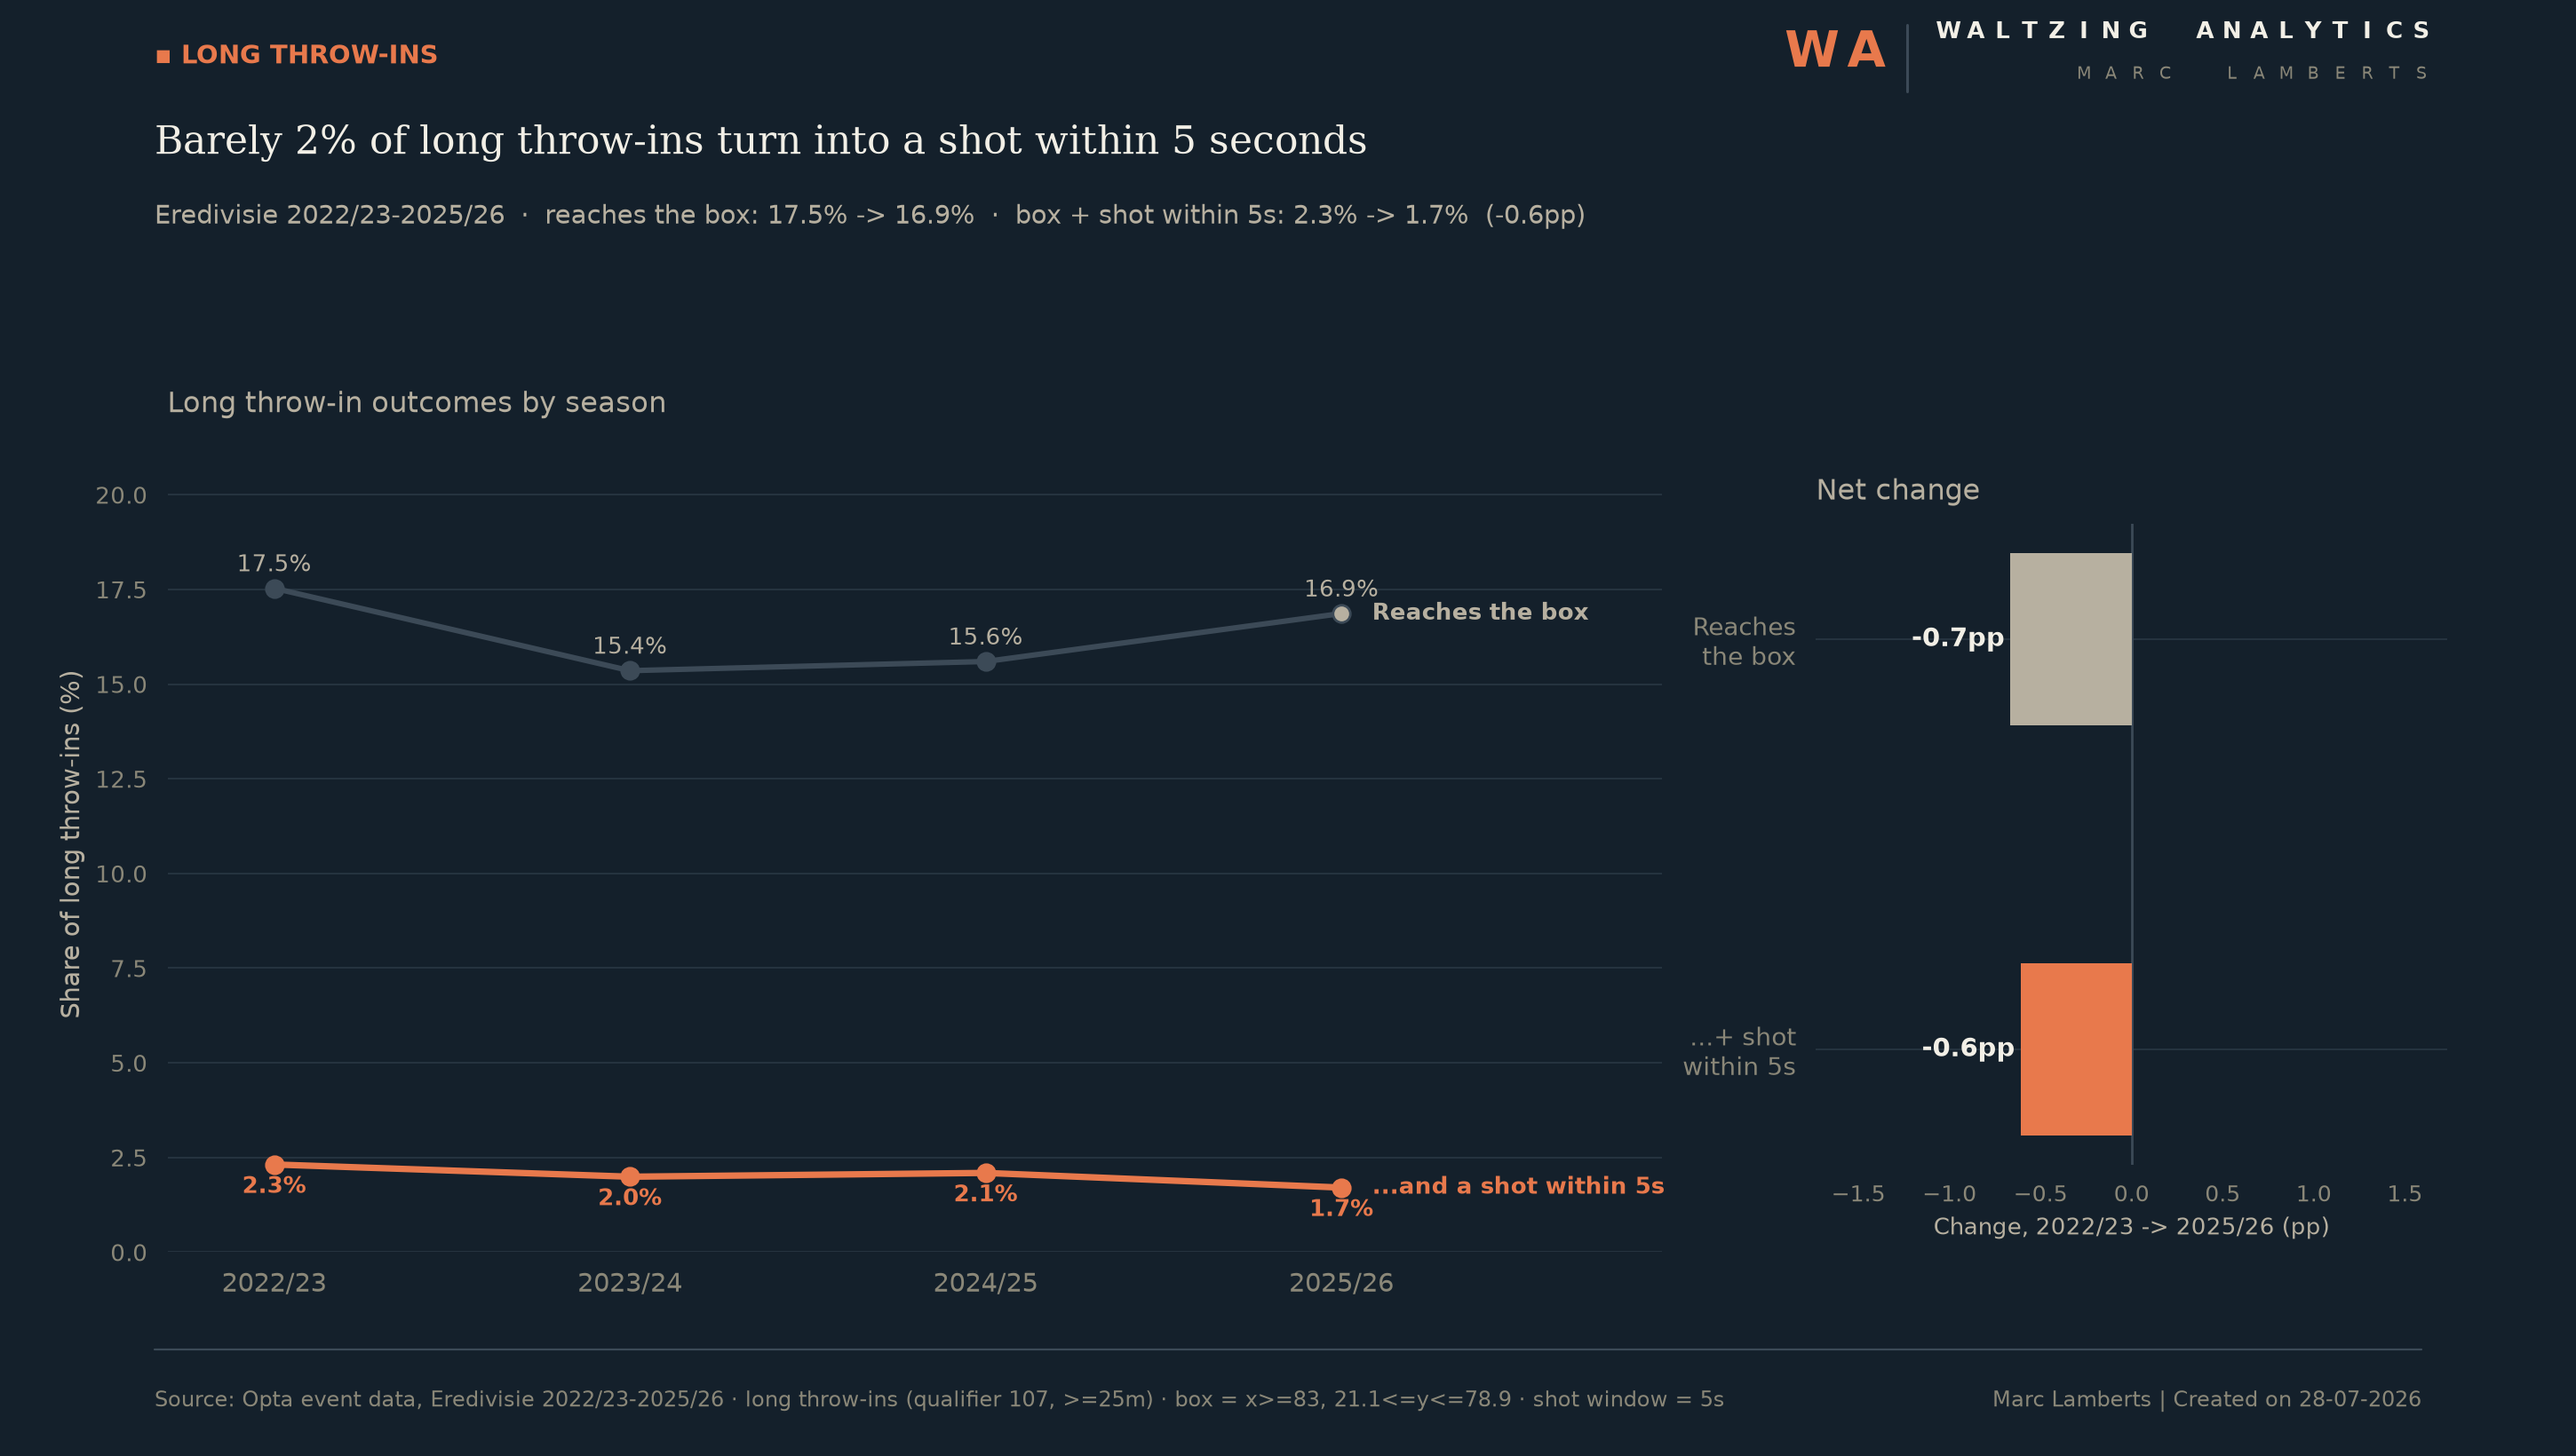
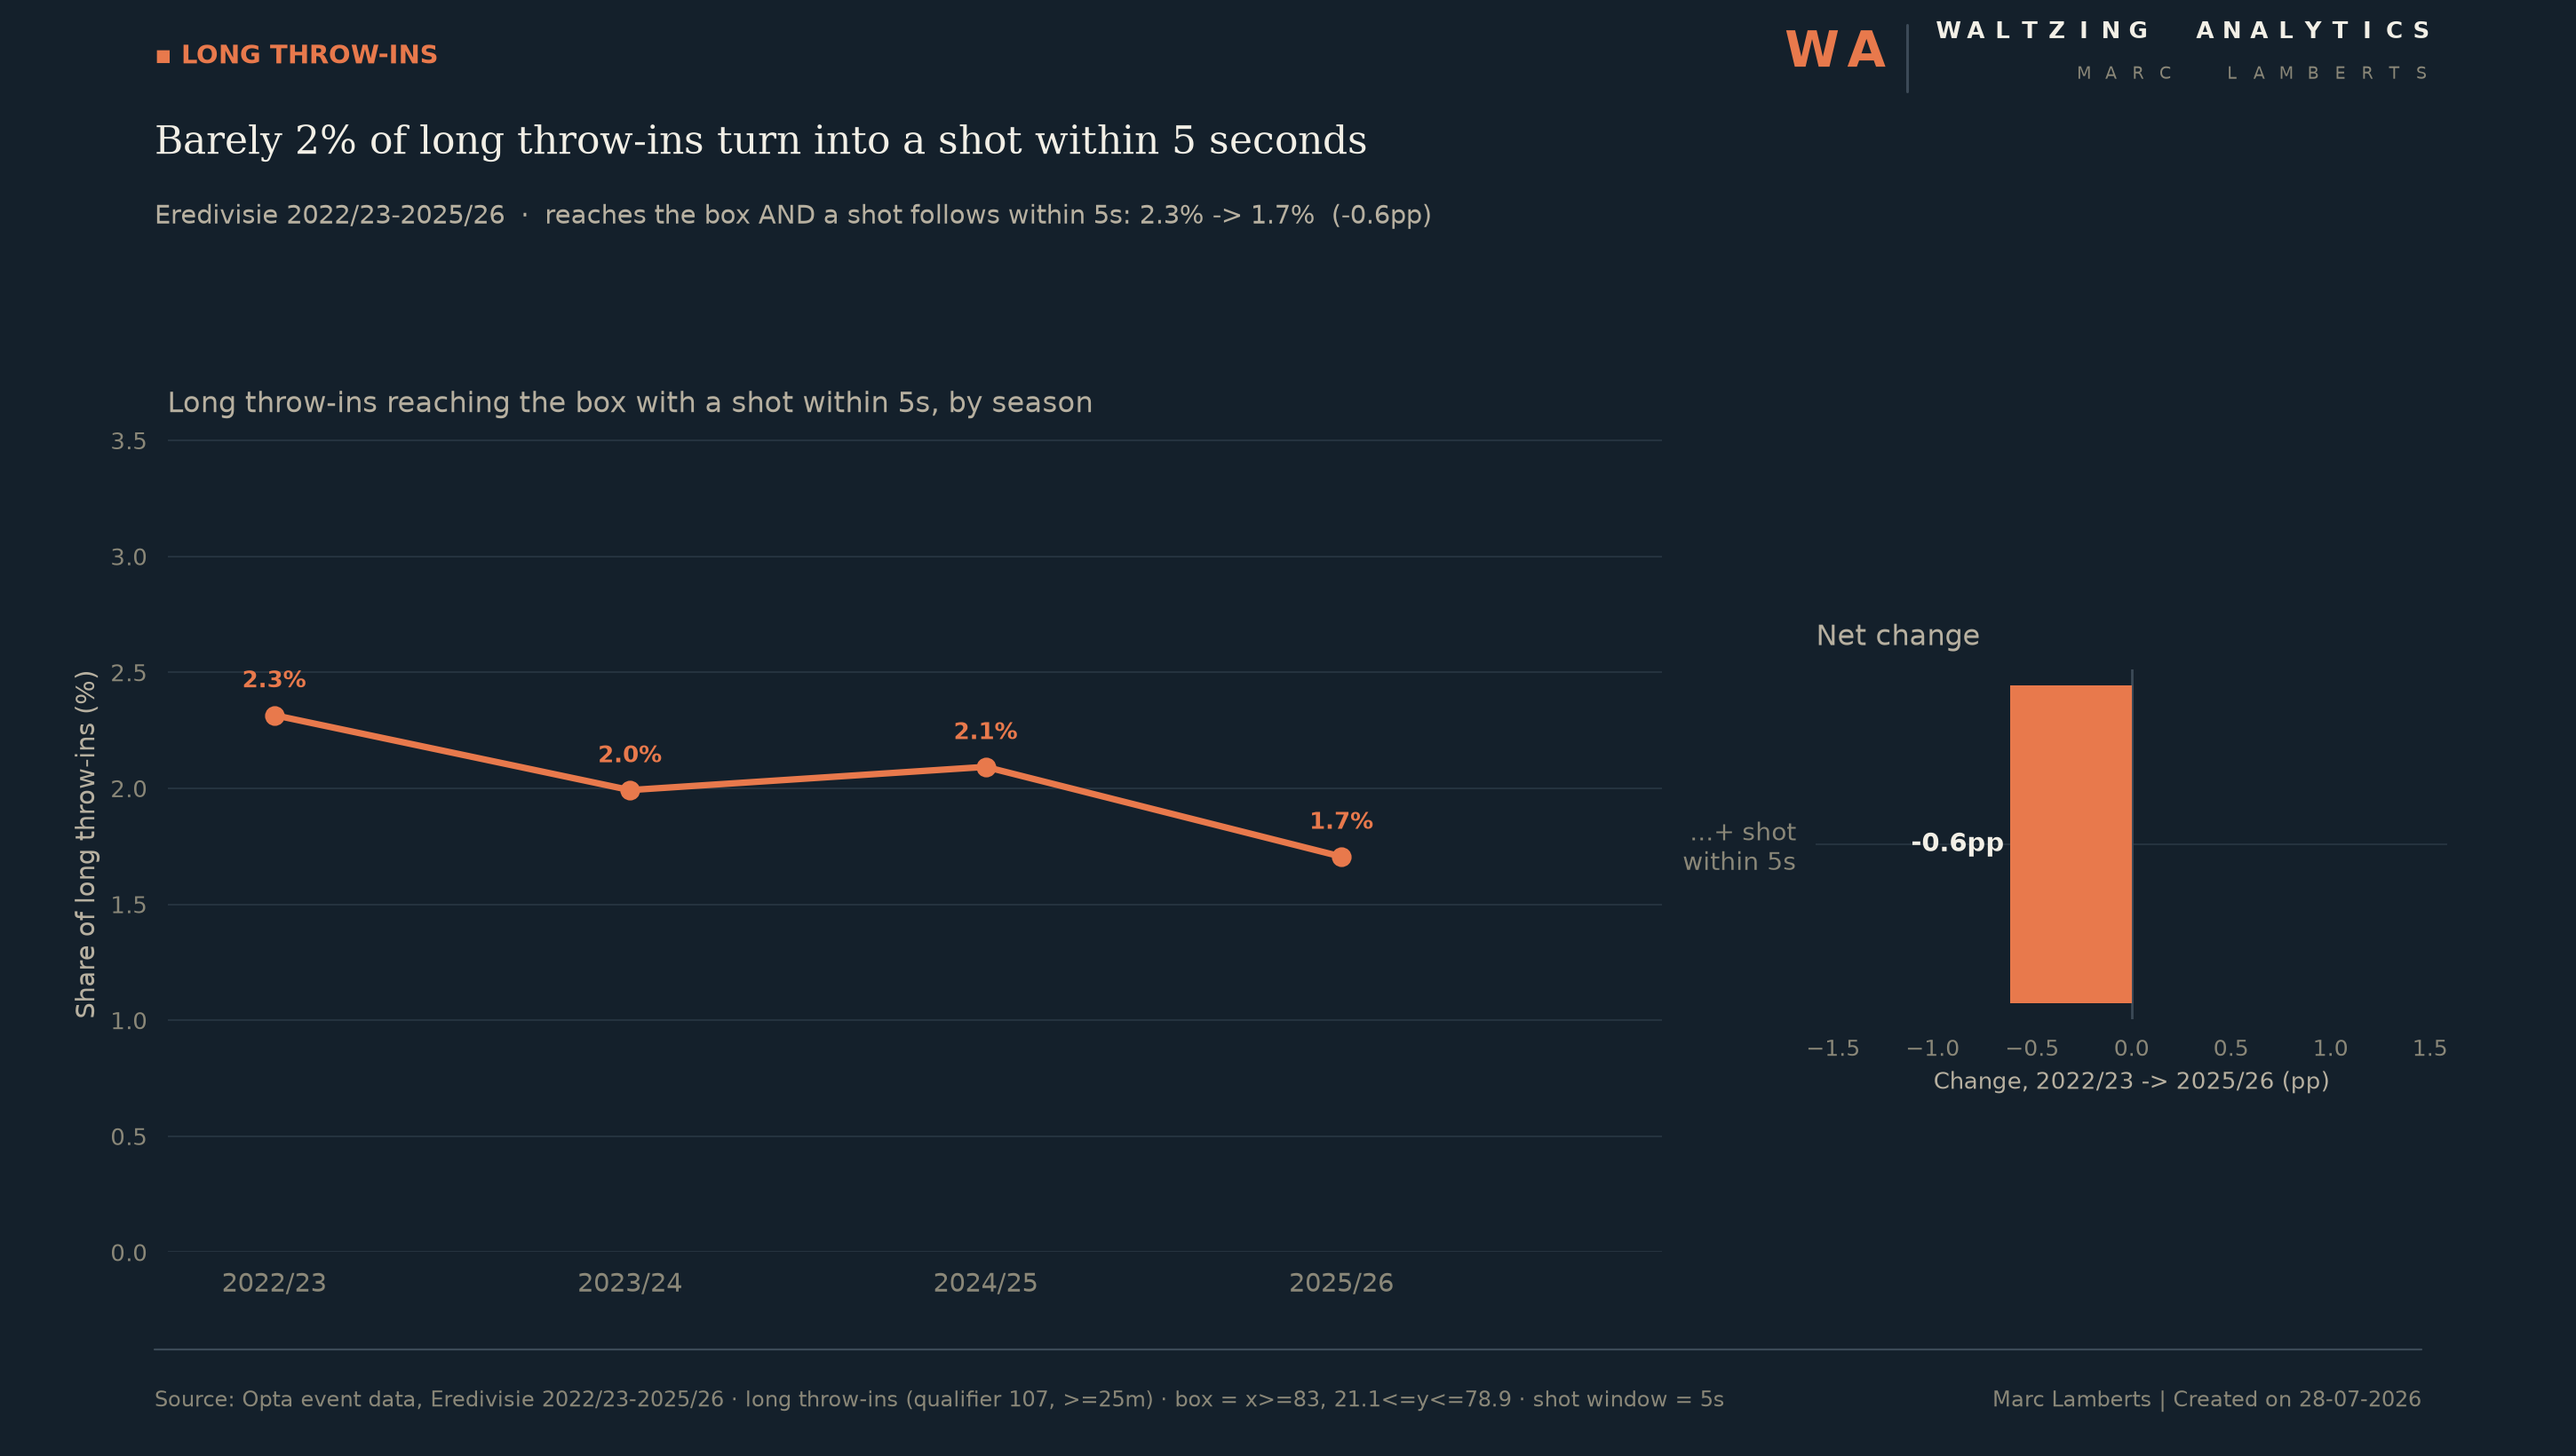
Simplify long throw-in trend to just the box+shot-within-5s line
Drop the "reaches the box" line and its side-panel bar per feedback --
keep only the combined metric (reaches the box AND a shot follows
within 5s), which is the one the user actually asked about.

diff --git a/Long Throw Model/long_throw_box_shot_trend.py b/Long Throw Model/long_throw_box_shot_trend.py
@@ -115,9 +115,7 @@ def season_stats(season):
 
 def make_chart(stats, mode, out_path):
     palette, _ = style.apply(mode)
-    box_pct = [s[1] for s in stats]
     combo_pct = [s[2] for s in stats]
-    box_delta = box_pct[-1] - box_pct[0]
     combo_delta = combo_pct[-1] - combo_pct[0]
 
     fig = plt.figure(figsize=(14.5, 8.2))
@@ -125,46 +123,35 @@ def make_chart(stats, mode, out_path):
     # --- main panel: 4-season trend line -------------------------------
     ax = fig.add_axes([0.065, 0.14, 0.58, 0.56])
     xw = np.arange(len(SEASONS))
-    ax.plot(xw, box_pct, marker="o", markersize=7, color=palette["axis"], linewidth=2.2, zorder=3)
     ax.plot(xw, combo_pct, marker="o", markersize=7, color=palette["accent"], linewidth=2.6, zorder=4)
 
-    for i, v in enumerate(box_pct):
-        ax.text(i, v + 0.45, f"{v:.1f}%", ha="center", fontsize=9.5, color=palette["ink_secondary"])
     for i, v in enumerate(combo_pct):
-        ax.text(i, v - 0.75, f"{v:.1f}%", ha="center", fontsize=9.5, color=palette["accent"], fontweight="bold")
-
-    components.label_endpoint(ax, xw[-1], box_pct[-1], "  Reaches the box", palette["ink_secondary"], palette=palette)
-    components.label_endpoint(ax, xw[-1], combo_pct[-1], "  ...and a shot within 5s", palette["accent"], palette=palette)
+        ax.text(i, v + 0.12, f"{v:.1f}%", ha="center", fontsize=9.5, color=palette["accent"], fontweight="bold")
 
     ax.set_xticks(xw)
     ax.set_xticklabels(SEASON_LABELS, fontsize=10.5)
     ax.set_ylabel("Share of long throw-ins (%)", fontsize=10.5, color=palette["ink_secondary"])
     ax.set_xlim(-0.3, len(SEASONS) - 0.1)
-    ax.set_ylim(0, max(box_pct) + 4)
+    ax.set_ylim(0, max(combo_pct) + 1.2)
     ax.tick_params(colors=palette["ink_muted"])
     ax.grid(True, axis="y", color=palette["grid"], linewidth=0.7, zorder=0)
     for spine in ax.spines.values():
         spine.set_visible(False)
-    ax.set_title("Long throw-in outcomes by season", fontsize=11.5, color=palette["ink_secondary"],
-                loc="left", pad=10)
+    ax.set_title("Long throw-ins reaching the box with a shot within 5s, by season",
+                fontsize=11.5, color=palette["ink_secondary"], loc="left", pad=10)
 
     # --- side panel: the 2022/23 -> 2025/26 difference -----------------
-    ax2 = fig.add_axes([0.705, 0.20, 0.245, 0.44])
-    cats = ["Reaches\nthe box", "...+ shot\nwithin 5s"]
-    deltas = [box_delta, combo_delta]
-    bar_colors = [palette["ink_secondary"], palette["accent"]]
-    yb = np.arange(len(cats))
-    ax2.barh(yb, deltas, height=0.42, color=bar_colors, zorder=3)
+    ax2 = fig.add_axes([0.705, 0.30, 0.245, 0.24])
+    yb = np.array([0])
+    ax2.barh(yb, [combo_delta], height=0.42, color=palette["accent"], zorder=3)
     ax2.axvline(0, color=palette["axis"], linewidth=1.0, zorder=2)
-    for i, d in enumerate(deltas):
-        ax2.text(d + (0.03 if d >= 0 else -0.03), i, f"{d:+.1f}pp", va="center",
-                 ha="left" if d >= 0 else "right", fontsize=10.5, fontweight="bold",
-                 color=palette["ink_primary"])
+    ax2.text(combo_delta + (0.03 if combo_delta >= 0 else -0.03), 0, f"{combo_delta:+.1f}pp", va="center",
+            ha="left" if combo_delta >= 0 else "right", fontsize=10.5, fontweight="bold",
+            color=palette["ink_primary"])
     ax2.set_yticks(yb)
-    ax2.set_yticklabels(cats, fontsize=10)
-    lim = max(abs(d) for d in deltas) * 2.6
+    ax2.set_yticklabels(["...+ shot\nwithin 5s"], fontsize=10)
+    lim = max(abs(combo_delta) * 2.6, 0.5)
     ax2.set_xlim(-lim, lim)
-    ax2.invert_yaxis()
     ax2.tick_params(axis="x", colors=palette["ink_muted"], labelsize=9)
     ax2.set_xlabel("Change, 2022/23 -> 2025/26 (pp)", fontsize=9.5, color=palette["ink_secondary"])
     for spine in ax2.spines.values():
@@ -174,8 +161,8 @@ def make_chart(stats, mode, out_path):
     components.header(
         fig, kicker="Long throw-ins",
         title="Barely 2% of long throw-ins turn into a shot within 5 seconds",
-        dek=f"Eredivisie 2022/23-2025/26  ·  reaches the box: {box_pct[0]:.1f}% -> {box_pct[-1]:.1f}%  ·  "
-            f"box + shot within 5s: {combo_pct[0]:.1f}% -> {combo_pct[-1]:.1f}%  ({combo_delta:+.1f}pp)",
+        dek=f"Eredivisie 2022/23-2025/26  ·  reaches the box AND a shot follows within 5s: "
+            f"{combo_pct[0]:.1f}% -> {combo_pct[-1]:.1f}%  ({combo_delta:+.1f}pp)",
         palette=palette)
     components.footer(fig, source=SOURCE, palette=palette)
 
